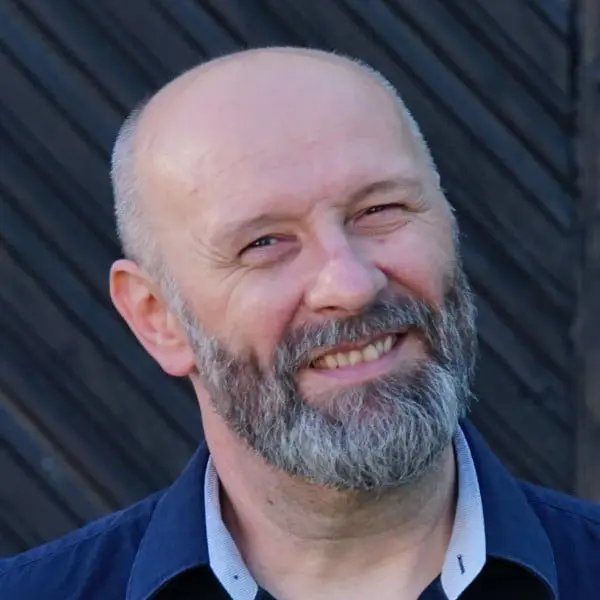
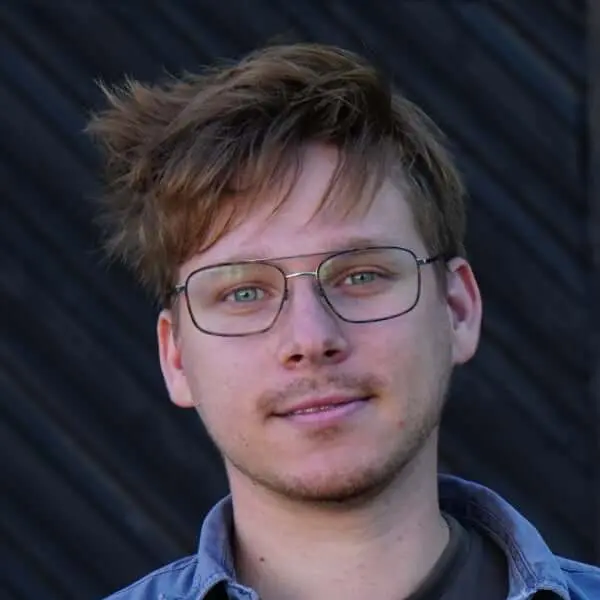
dsdsdsdwerewwq

diff --git a/index.html b/index.html
@@ -62,6 +62,24 @@
                             <p>Live & Laut</p>
                         </div>
                     </div>
+
+                                        <div class="event-card" onclick="toggleExpand(this)">
+                        <div class="event-image-container">
+                            <img src="img/event5.jpg" alt="Event">
+                            <div class="event-socials">
+                                <a href="#"><i class="fab fa-facebook"></i></a>
+                                <a href="#"><i class="fab fa-instagram"></i></a>
+                                <a href="#"><i class="fab fa-spotify"></i></a>
+                            </div>
+                        </div>
+                        <div class="card-info">
+                            <span class="date">Montag, 22.06.26.., ab 16 Uhr</span>
+                            <h3>Musiker*innen gegen Rechts bei der Demo in Nürnberg</h3>
+                            <p>Live & Laut</p>
+                        </div>
+                    </div>
+
+
                     <div class="event-card" onclick="toggleExpand(this)">
                         <div class="event-image-container">
                             <img src="img/event2.jpg" alt="Event">
@@ -76,11 +94,7 @@
                             <h3>Summerending Veitsbronn</h3>
                             <p>Open Air</p>
                         </div>
-                                                <div class="card-info">
-                            <span class="date">8. Sept 2024</span>
-                            <h3>Summerending Veitsbronn</h3>
-                            <p>Open Air</p>
-                        </div>
+
                     </div>
                     </div>
 
@@ -99,18 +113,21 @@
 
             <div class="members-grid">
                 <div class="member-card">
-                    <img src="band/phil.jpg" alt="Phil">
-                    <h3>Phil</h3>
+                    <img src="band/melli.jpg" alt="Phil">
+                    <h3>Melli</h3>
+              
+                   
                     <p>Gitarre & Gesang</p>
                 </div>
                 <div class="member-card">
-                    <img src="band/stefan.jpg" alt="Stefan">
-                    <h3>Stefan</h3>
+                    <img src="band/phil.jpg" alt="Phil">
+                    <h3>Phil</h3>
                     <p>Bass & Gesang</p>
                 </div>
                 <div class="member-card">
-                    <img src="band/melli.jpg" alt="Melli">
-                    <h3>Melli</h3>
+                    <img src="band/stefan.webp" alt="stefan">
+                  
+                       <h3>Stefan</h3>
                     <p>Gesang</p>
                 </div>
                 <div class="member-card">
